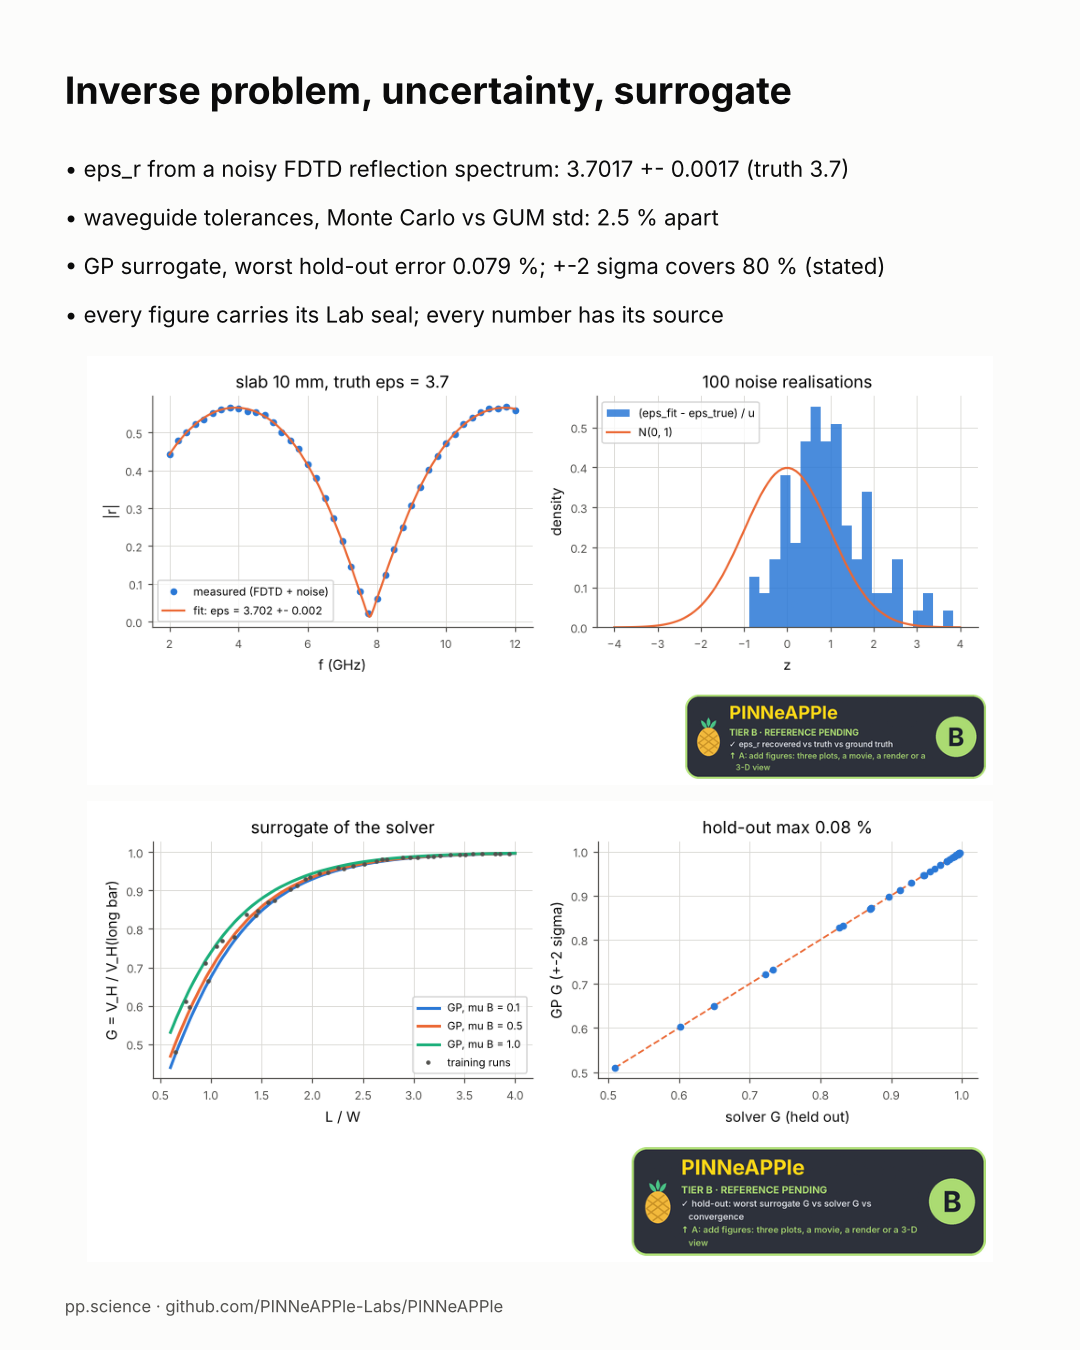
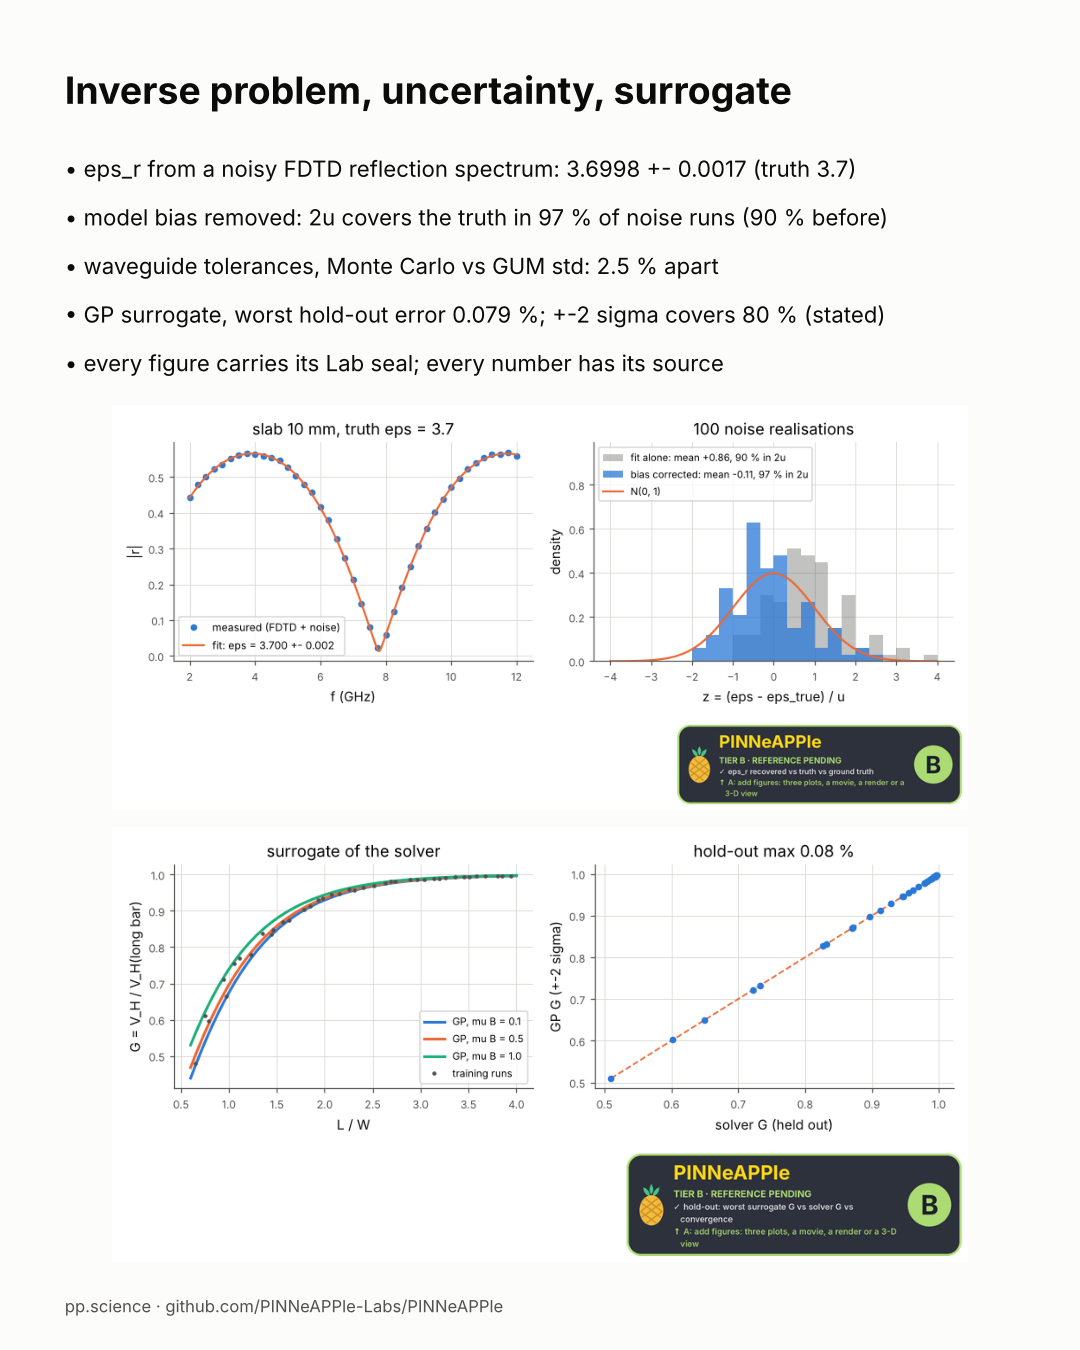
science post: slide 6 with the bias-corrected permittivity fit
eps_r = 3.6998 +- 0.0017 (was 3.7017, biased by the model) and the 2u
coverage 97 % (90 % before the correction), from the committed
result.json; sources line updated.

Claude-Session: https://claude.ai/code/session_01PAZ9hVdE58eGT5R1RFBKLh

diff --git a/media/science-by-area/make_media.py b/media/science-by-area/make_media.py
@@ -169,6 +169,8 @@ def main():
     slide(os.path.join(OUT, "06_research.png"), "Inverse problem, uncertainty, surrogate",
           [f"• eps_r from a noisy FDTD reflection spectrum: {eps['value']:.4f} +- {eps['uncertainty']:.4f} "
            "(truth 3.7)",
+           f"• model bias removed: 2u covers the truth in {100 * iv['values']['coverage_2u_eps']['value']:.0f} % "
+           f"of noise runs ({100 * iv['values']['coverage_2u_eps_uncorrected']['value']:.0f} % before)",
            f"• waveguide tolerances, Monte Carlo vs GUM std: {100 * gum['rel_error']:.1f} % apart",
            f"• GP surrogate, worst hold-out error {100 * s['values']['holdout_max_rel_error']['value']:.3f} %; "
            f"+-2 sigma covers {100 * s['values']['coverage_2sigma']['value']:.0f} % (stated)",

diff --git a/posts/science-by-area.md b/posts/science-by-area.md
@@ -48,4 +48,4 @@ All paths are in PINNeAPPle, branch `feat/science-research`; that branch holds t
 - 1.50 %, 0.68 %, 0.33 %, order 2.65: E/research_fdtd_3d/3D_plus_t/result.json `values.power_error_10cpw` = 0.015002, `power_error_14cpw` = 0.006783, `power_error_20cpw` = 0.003288, `observed_order_vacuum` = 2.647.
 - Sphere case, order 1.05 and GCI 2.8 %: same file, `values.observed_order_configured` = 1.050, `values.gci_fine_configured` = 0.02842.
 - Surrogate ±2σ covers 80 %, threshold 80 %: E/research_surrogate_hall/2D/result.json `values.coverage_2sigma` = 0.8; check "+-2 sigma coverage of the hold-out at least 80 %".
-- Carousel only: 11 / 53 / 13 subareas (atlas.json statuses); fringing +16.8 % (E/parallel_plate_capacitor/2D/result.json `values.fringe_excess` = 0.16820); Kirchhoff +6.2 %, +2.3 %, +0.8 % (E/parallel_plate_capacitor/3D/result.json `data.scaling.deviation_from_kirchhoff`); eps_r = 3.7017 ± 0.0017 (E/research_inverse_permittivity/1D/result.json `values.eps_r_recovered`); Monte Carlo vs GUM std 2.5 % (E/research_uq_waveguide/2D/result.json, comparison "TE10: Monte Carlo std vs first-order GUM" `rel_error` = 0.0252); hold-out worst 0.079 % (E/research_surrogate_hall/2D/result.json `values.holdout_max_rel_error` = 0.00079); dipole sign change and EMF values as above.
+- Carousel only: 11 / 53 / 13 subareas (atlas.json statuses); fringing +16.8 % (E/parallel_plate_capacitor/2D/result.json `values.fringe_excess` = 0.16820); Kirchhoff +6.2 %, +2.3 %, +0.8 % (E/parallel_plate_capacitor/3D/result.json `data.scaling.deviation_from_kirchhoff`); eps_r = 3.6998 ± 0.0017 (E/research_inverse_permittivity/1D/result.json `values.eps_r_recovered`); 2u coverage 97 %, 90 % before the bias correction (same file, `values.coverage_2u_eps` = 0.97, `values.coverage_2u_eps_uncorrected` = 0.9, over `params.repeats` = 100); Monte Carlo vs GUM std 2.5 % (E/research_uq_waveguide/2D/result.json, comparison "TE10: Monte Carlo std vs first-order GUM" `rel_error` = 0.0252); hold-out worst 0.079 % (E/research_surrogate_hall/2D/result.json `values.holdout_max_rel_error` = 0.00079); dipole sign change and EMF values as above.
